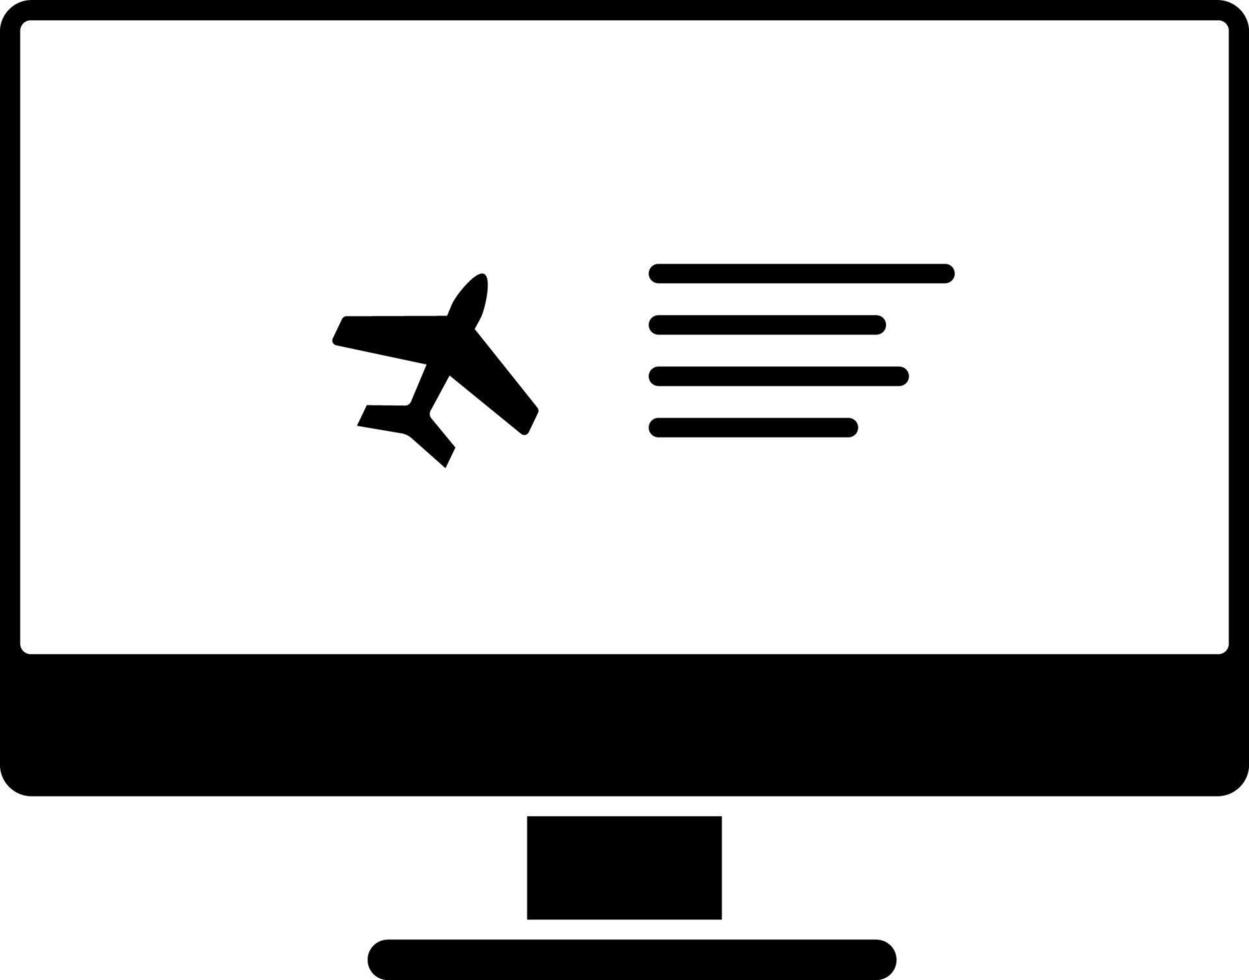
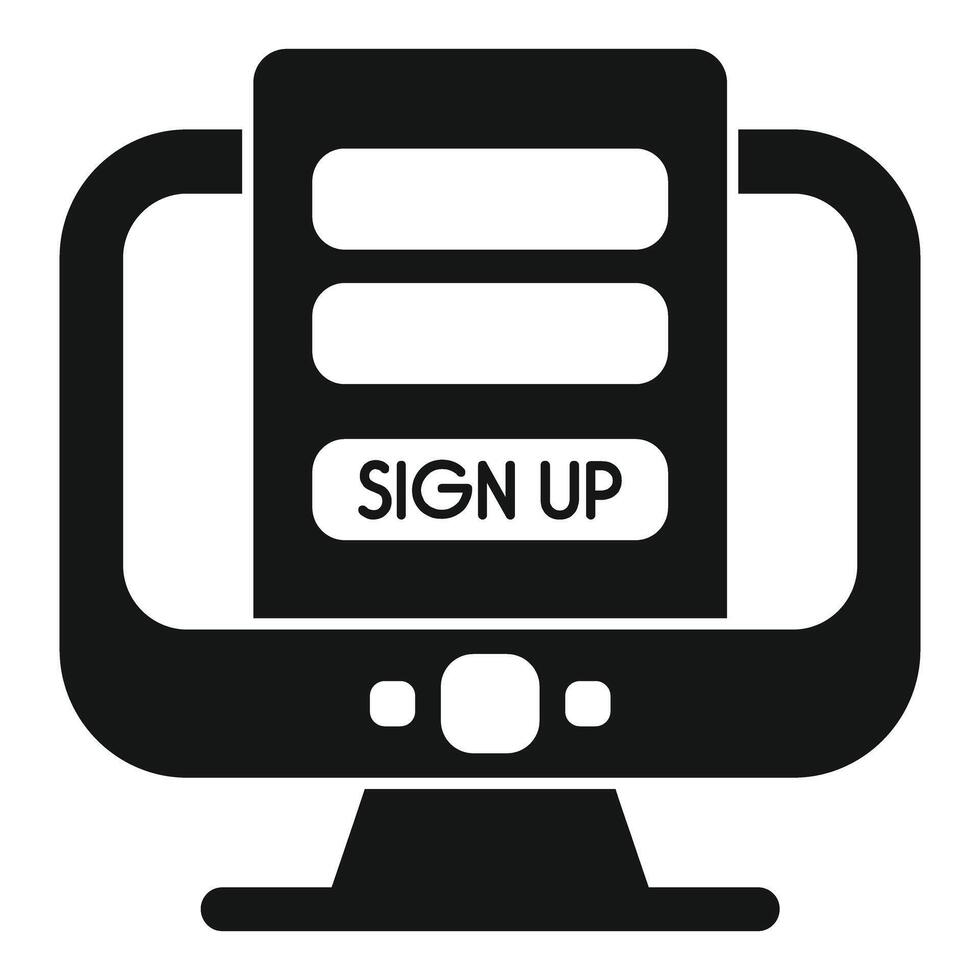
portfolio-website pushed

diff --git a/src/components/Projects.jsx b/src/components/Projects.jsx
@@ -82,7 +82,7 @@ const project = () => {
                   </a>
 
                   <p className="mt-2 text-slate-900">
-                    Here you will see my how you can buy a product in easy way .
+                    Here you will see how you can buy a product in easy way .
                   </p>
                 </div>
               </div>
@@ -93,13 +93,17 @@ const project = () => {
                 </div>
                 <div className="p-8">
                   <div className="text-sm font-semibold tracking-wide text-indigo-500 uppercase">
-                    Airline Booking
+                    Registration Form
                   </div>
-                  <a href="#">Travel</a>
+                  <a
+                    href="https://small-project-five.vercel.app/"
+                    target="_blank"
+                  >
+                    Register
+                  </a>
 
                   <p className="mt-2 text-slate-900">
-                    Online booking ticket. Around world by booking your ticket
-                    in easy way
+                    Online Regitration in easy way
                   </p>
                 </div>
               </div>
